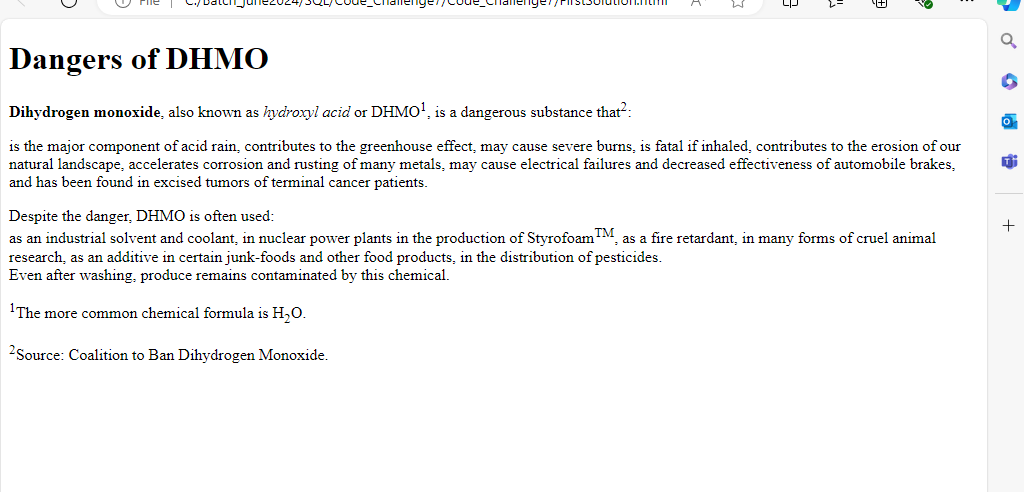
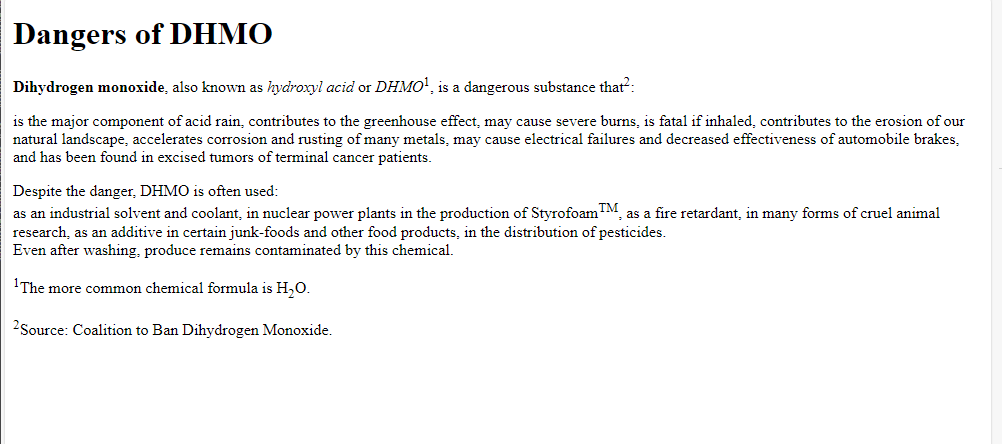
CC7

diff --git a/SQL/ASSESSMENT/Code_Challenge7/Code_Challenge7/FirstSolution.html b/SQL/ASSESSMENT/Code_Challenge7/Code_Challenge7/FirstSolution.html
@@ -7,7 +7,7 @@
 </head>
 <body>
     <h1>Dangers of DHMO</h1>
-    <b>Dihydrogen monoxide</b>, also known as <i>hydroxyl acid</i> or DHMO<sup>1</sup>, is a dangerous substance that<sup>2</sup>:
+    <b>Dihydrogen monoxide</b>, also known as <i>hydroxyl acid</i> or <i>DHMO</i><sup>1</sup>, is a dangerous substance that<sup>2</sup>:
     <p>is the major component of acid rain, contributes to the greenhouse effect, may cause severe burns, is fatal if inhaled, contributes to the erosion of our natural landscape, accelerates corrosion and rusting of many metals, may cause electrical failures and decreased effectiveness of automobile brakes, and has been found in excised tumors of terminal cancer patients.</p>
     <p>
         Despite the danger, DHMO is often used:<br>
